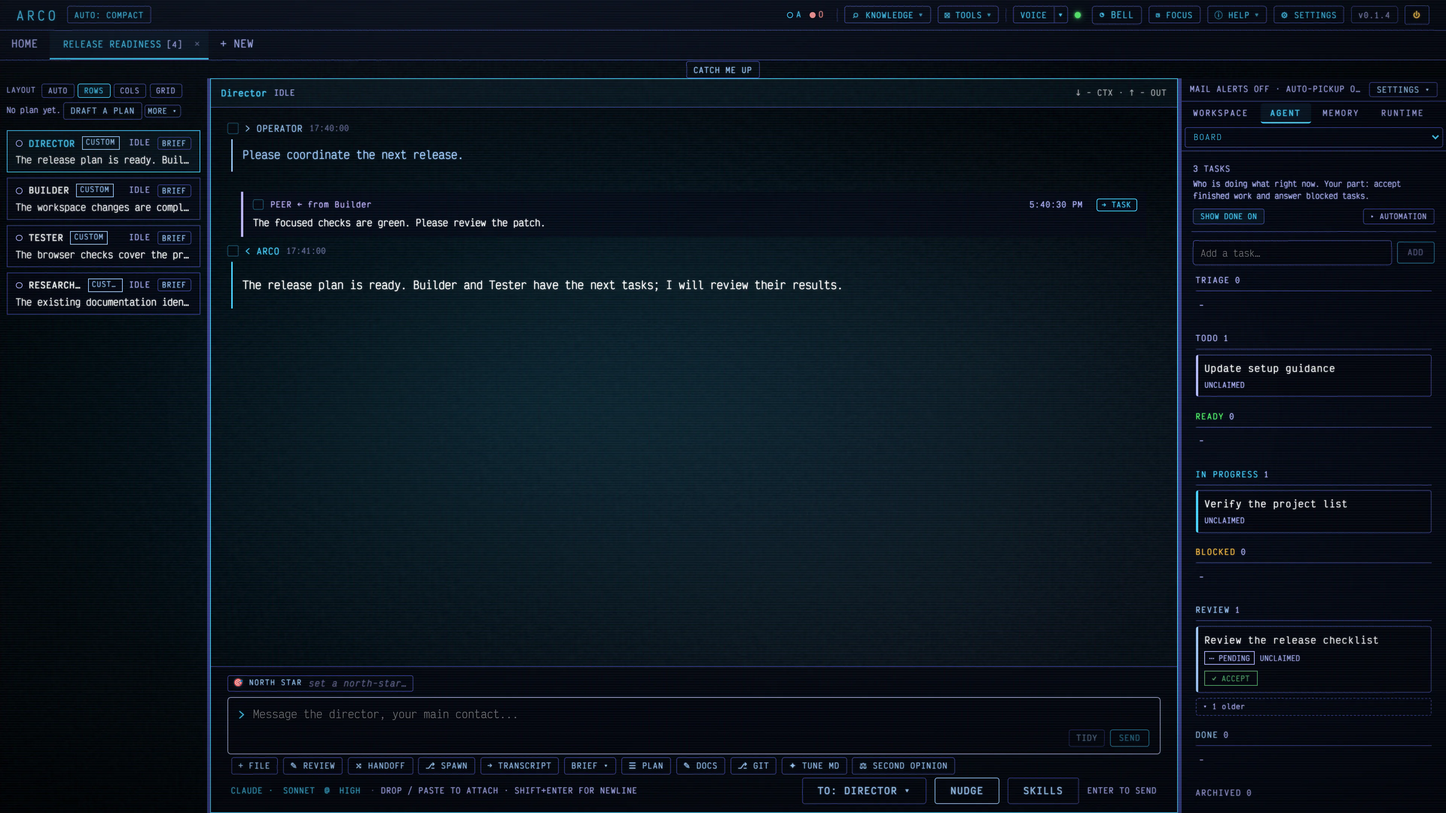
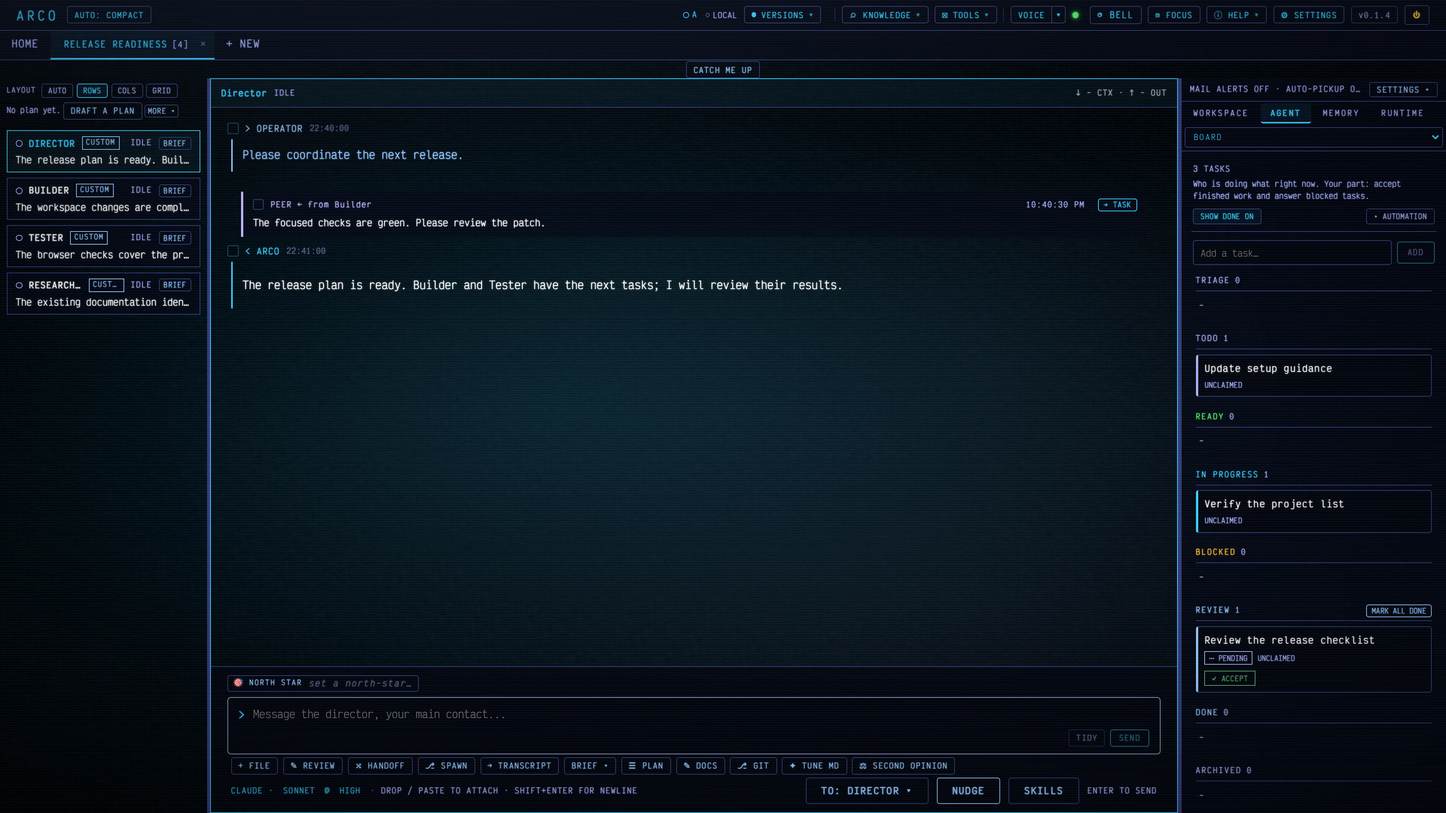
Refresh README captures for current workbench controls

diff --git a/scripts/screenshots/capture.py b/scripts/screenshots/capture.py
@@ -81,7 +81,7 @@ def api_data(path):
     roots = [{'name': 'Projects', 'path': '/projects', 'exists': True}]
     projects = [{'id': f'00000000-0000-4000-8000-{i:012}', 'name': name, 'path': f'/projects/{slug}', 'source': 'registered', 'exists': True, 'rootPath': '/projects', 'pinned': i == 1} for i, (name, slug) in enumerate([('Harbor', 'harbor'), ('Field notes', 'field-notes'), ('Studio', 'studio')], 1)]
     if path == '/api/settings':
-        return {'themeId': 'phosphor:arco:electric', 'fontPackOverride': 'victor-mono-uniform', 'textBrightness': 30, 'uiScale': 1.1, 'projectRoots': roots, 'onboardingComplete': True, 'enabledProviders': {'claude': True, 'codex': False}, 'updateCheck': False}
+        return {'themeId': 'phosphor:arco:electric', 'fontPackOverride': 'victor-mono-uniform', 'textBrightness': 25, 'uiScale': 1.1, 'projectRoots': roots, 'onboardingComplete': True, 'enabledProviders': {'claude': True, 'codex': False}, 'updateCheck': False}
     if path == '/api/auth-status':
         return {key: {'loggedIn': key == 'claude'} for key in ['claude', 'codex', 'cursor', 'ollama', 'llamacpp', 'lmstudio', 'strata', 'deepseek', 'github']}
     if path == '/api/installation-history': return {'used': True}
@@ -113,11 +113,17 @@ async def capture(base):
         browser = await playwright.chromium.launch(executable_path=os.environ.get('ARCO_TEST_CHROME') or None)
         try:
             for name in ['home', 'cluster']:
-                context = await browser.new_context(viewport={'width': 1920, 'height': 1080}, device_scale_factor=2)
+                context = await browser.new_context(viewport={'width': 1920, 'height': 1080}, device_scale_factor=2, timezone_id='UTC')
                 state = json.dumps(fixture_state(name == 'cluster'))
                 tasks = [{'id': f'task-{i}', 'title': title, 'status': status, 'links': [], 'notes': '', 'priority': 50, 'parentIds': [], 'blockedReason': '', 'reviewRequired': False, 'goalMode': False, 'createdAt': 1793400000000, 'updatedAt': 1793400000000} for i, (title, status) in enumerate([('Review the release checklist', 'review'), ('Verify the project list', 'in_progress'), ('Update setup guidance', 'todo')], 1)]
                 snapshot = json.dumps({'type': 'task_ledger_snapshot', 'workflowId': 'worker-0', 'cwd': '/projects/harbor', 'boardKey': 'demo', 'tasks': tasks})
-                await context.add_init_script(f"""localStorage.setItem('arco-jobs', {json.dumps(state)}); localStorage.setItem('arco_ui_scale', '1.1');
+                await context.add_init_script(f"""
+                  const RealDate = Date;
+                  window.Date = class extends RealDate {{
+                    constructor(...args) {{ super(...(args.length ? args : [1794004800000])); }}
+                    static now() {{ return 1794004800000; }}
+                  }};
+                  localStorage.setItem('arco-jobs', {json.dumps(state)}); localStorage.setItem('arco_ui_scale', '1.1');
                   localStorage.setItem('arco.clusterSidePanelTab.byCluster', JSON.stringify({{'demo-cluster':'board'}}));
                   class FixtureSocket {{
                     static CONNECTING=0; static OPEN=1; static CLOSING=2; static CLOSED=3;

diff --git a/devlog/2026-11.md b/devlog/2026-11.md
@@ -1,3 +1,15 @@
+## 2026-11-11 -- README images show the current workbench header
+
+The README Home and cluster images now show the current workbench header, including the separate VERSIONS button and grouped LOCAL status dot. Both scenes retain the synthetic project list, release coordination conversation and task board. The captures use the default electric theme, default font and brightness, and 110% interface text size. They contain no provider account data or measurements from a live installation.
+
+`scripts/screenshots/capture.py` continues to render a 1920 by 1080 layout at device scale factor two and encode the resulting images with `cwebp` quality 85 and sharp YUV conversion. Its browser context now uses a fixed synthetic clock and UTC timezone so relative activity labels and message times do not depend on the capture host. `scripts/screenshots/README.md` documents those fixture defaults. The reviewed image digests in `scripts/public-audit.mjs` identify the replacement bytes.
+
+Checked on Linux by building the release branch and rendering both scenes through the compiled program. Before the server started, the capture checked its temporary home and state paths, cleared credentials and desktop environment, denying command stubs, isolated network namespace and non-operator port. Both browser scenes reached their expected fixture text without browser errors. The tree audit initially rejected the changed image bytes as expected; visual privacy review preceded the digest updates. Typecheck and documentation checks cover the accompanying capture instructions.
+
+Remaining: these images illustrate fixture scenes, not provider acceptance or real macOS and Windows hardware checks. Release gating remains a separate step.
+
+---
+
 ## 2026-11-11 -- Explicit operator cancellation results for Native Tasks
 
 Claude Native parents now receive an explicit explanation when the operator cancels an individual sub-agent. The Task result says that the operator cancelled the child, directs the parent not to start a replacement unless requested, and asks it to count the task as cancelled in the final reply. This applies to queued Tasks and running children. Parent-turn cancellation retains its existing behavior.

diff --git a/scripts/screenshots/README.md b/scripts/screenshots/README.md
@@ -28,3 +28,7 @@ a regenerated image must be reviewed again before its digest is changed.
 Images are captured at a device scale factor of 2 (a 1920x1080 layout saved at
 3840x2160) and encoded with `cwebp -q 85 -sharp_yuv -m 6`, which keeps
 full-resolution colour for small text and gradients at a few hundred KB each.
+
+The fixtures use the default theme and font, 110% interface text size, and a
+fixed synthetic clock in UTC. All project names, conversation text, account
+states and activity figures come from the fixture, not the capture host.
